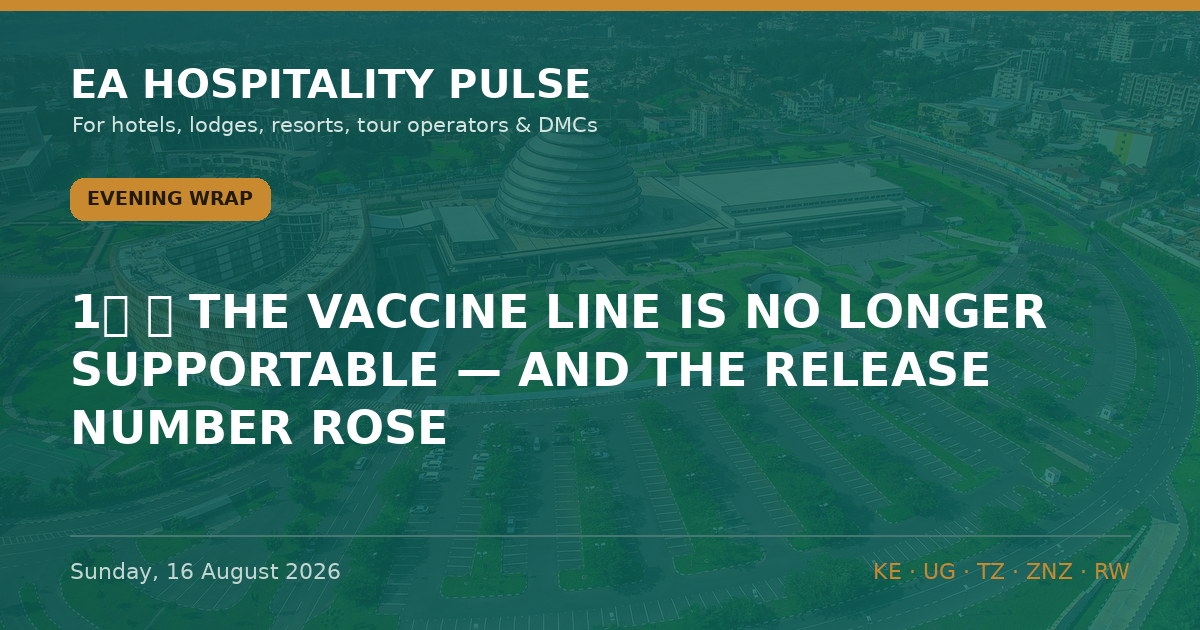
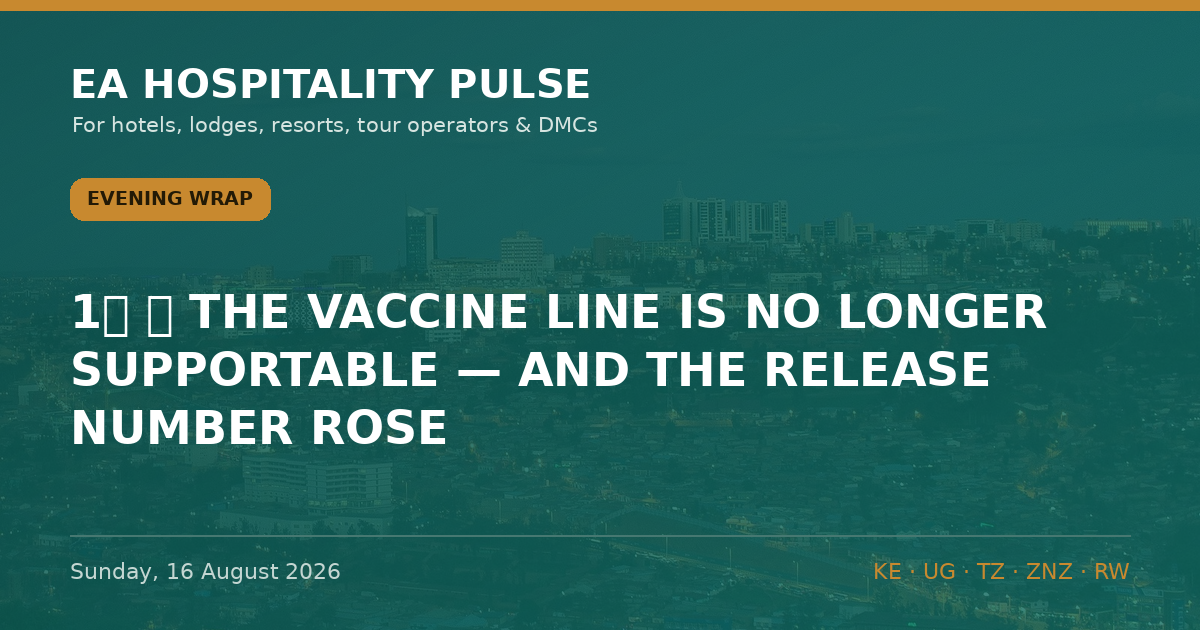
Auto-build: 2026-08-16 16:21 UTC

diff --git a/editions/pulse-2026-08-16-evening.html b/editions/pulse-2026-08-16-evening.html
@@ -73,7 +73,7 @@ footer.s{text-align:center;color:var(--muted);font-family:Helvetica Neue,Arial,s
 <div class="wrap">
   <article class="art">
     <img class="hero" src="../og/pulse-2026-08-16-evening-clean.png" alt="Evening Wrap — Sunday, 16 August 2026" loading="eager">
-    
+    <p class="hcredit">Photo: Adrien K · <a href="https://commons.wikimedia.org/wiki/File:Kigali2018Cropped.jpg" target="_blank" rel="noopener nofollow">Wikimedia Commons</a> · <a href="https://creativecommons.org/licenses/by/2.0" target="_blank" rel="noopener nofollow">CC BY 2.0</a></p>
     <a class="nav" href="../index.html#archive">← All editions</a>
     <div class="kicker"><span class="badge">Evening Wrap</span><time datetime="2026-08-16">Sunday, 16 August 2026</time></div>
     <h1>1⃣ 🌍 THE VACCINE LINE IS NO LONGER SUPPORTABLE — AND THE RELEASE NUMBER ROSE.</h1>

diff --git a/index.html b/index.html
@@ -352,7 +352,7 @@
   .pl-brand{font-family:'Helvetica Neue',Arial,sans-serif;font-size:12px;font-weight:600;color:var(--muted);background:var(--sand-2);padding:2px 8px;border-radius:20px;margin-left:4px;white-space:nowrap}
   .pl-detail{font-size:14px;color:var(--muted);margin:6px 0 8px;line-height:1.55}
 </style>
-<!--BUILD_STAMP:20260816-1919--></head>
+<!--BUILD_STAMP:20260816-1621--></head>
 <body>
 <header class="site">
   <div class="wrap topbar">

diff --git a/data.js b/data.js
@@ -1906,4 +1906,4 @@ window.INSIGHTS = [
   "editionKey": "evening"
  }
 ];
-window.BUILT_AT = "2026-08-16 19:19";
+window.BUILT_AT = "2026-08-16 16:21";

diff --git a/ledger.js b/ledger.js
@@ -1,5 +1,5 @@
 window.LEDGER = {
- "updated": "2026-08-16 19:20",
+ "updated": "2026-08-16 16:21",
  "stats": {
   "total": 92,
   "open": 72,
